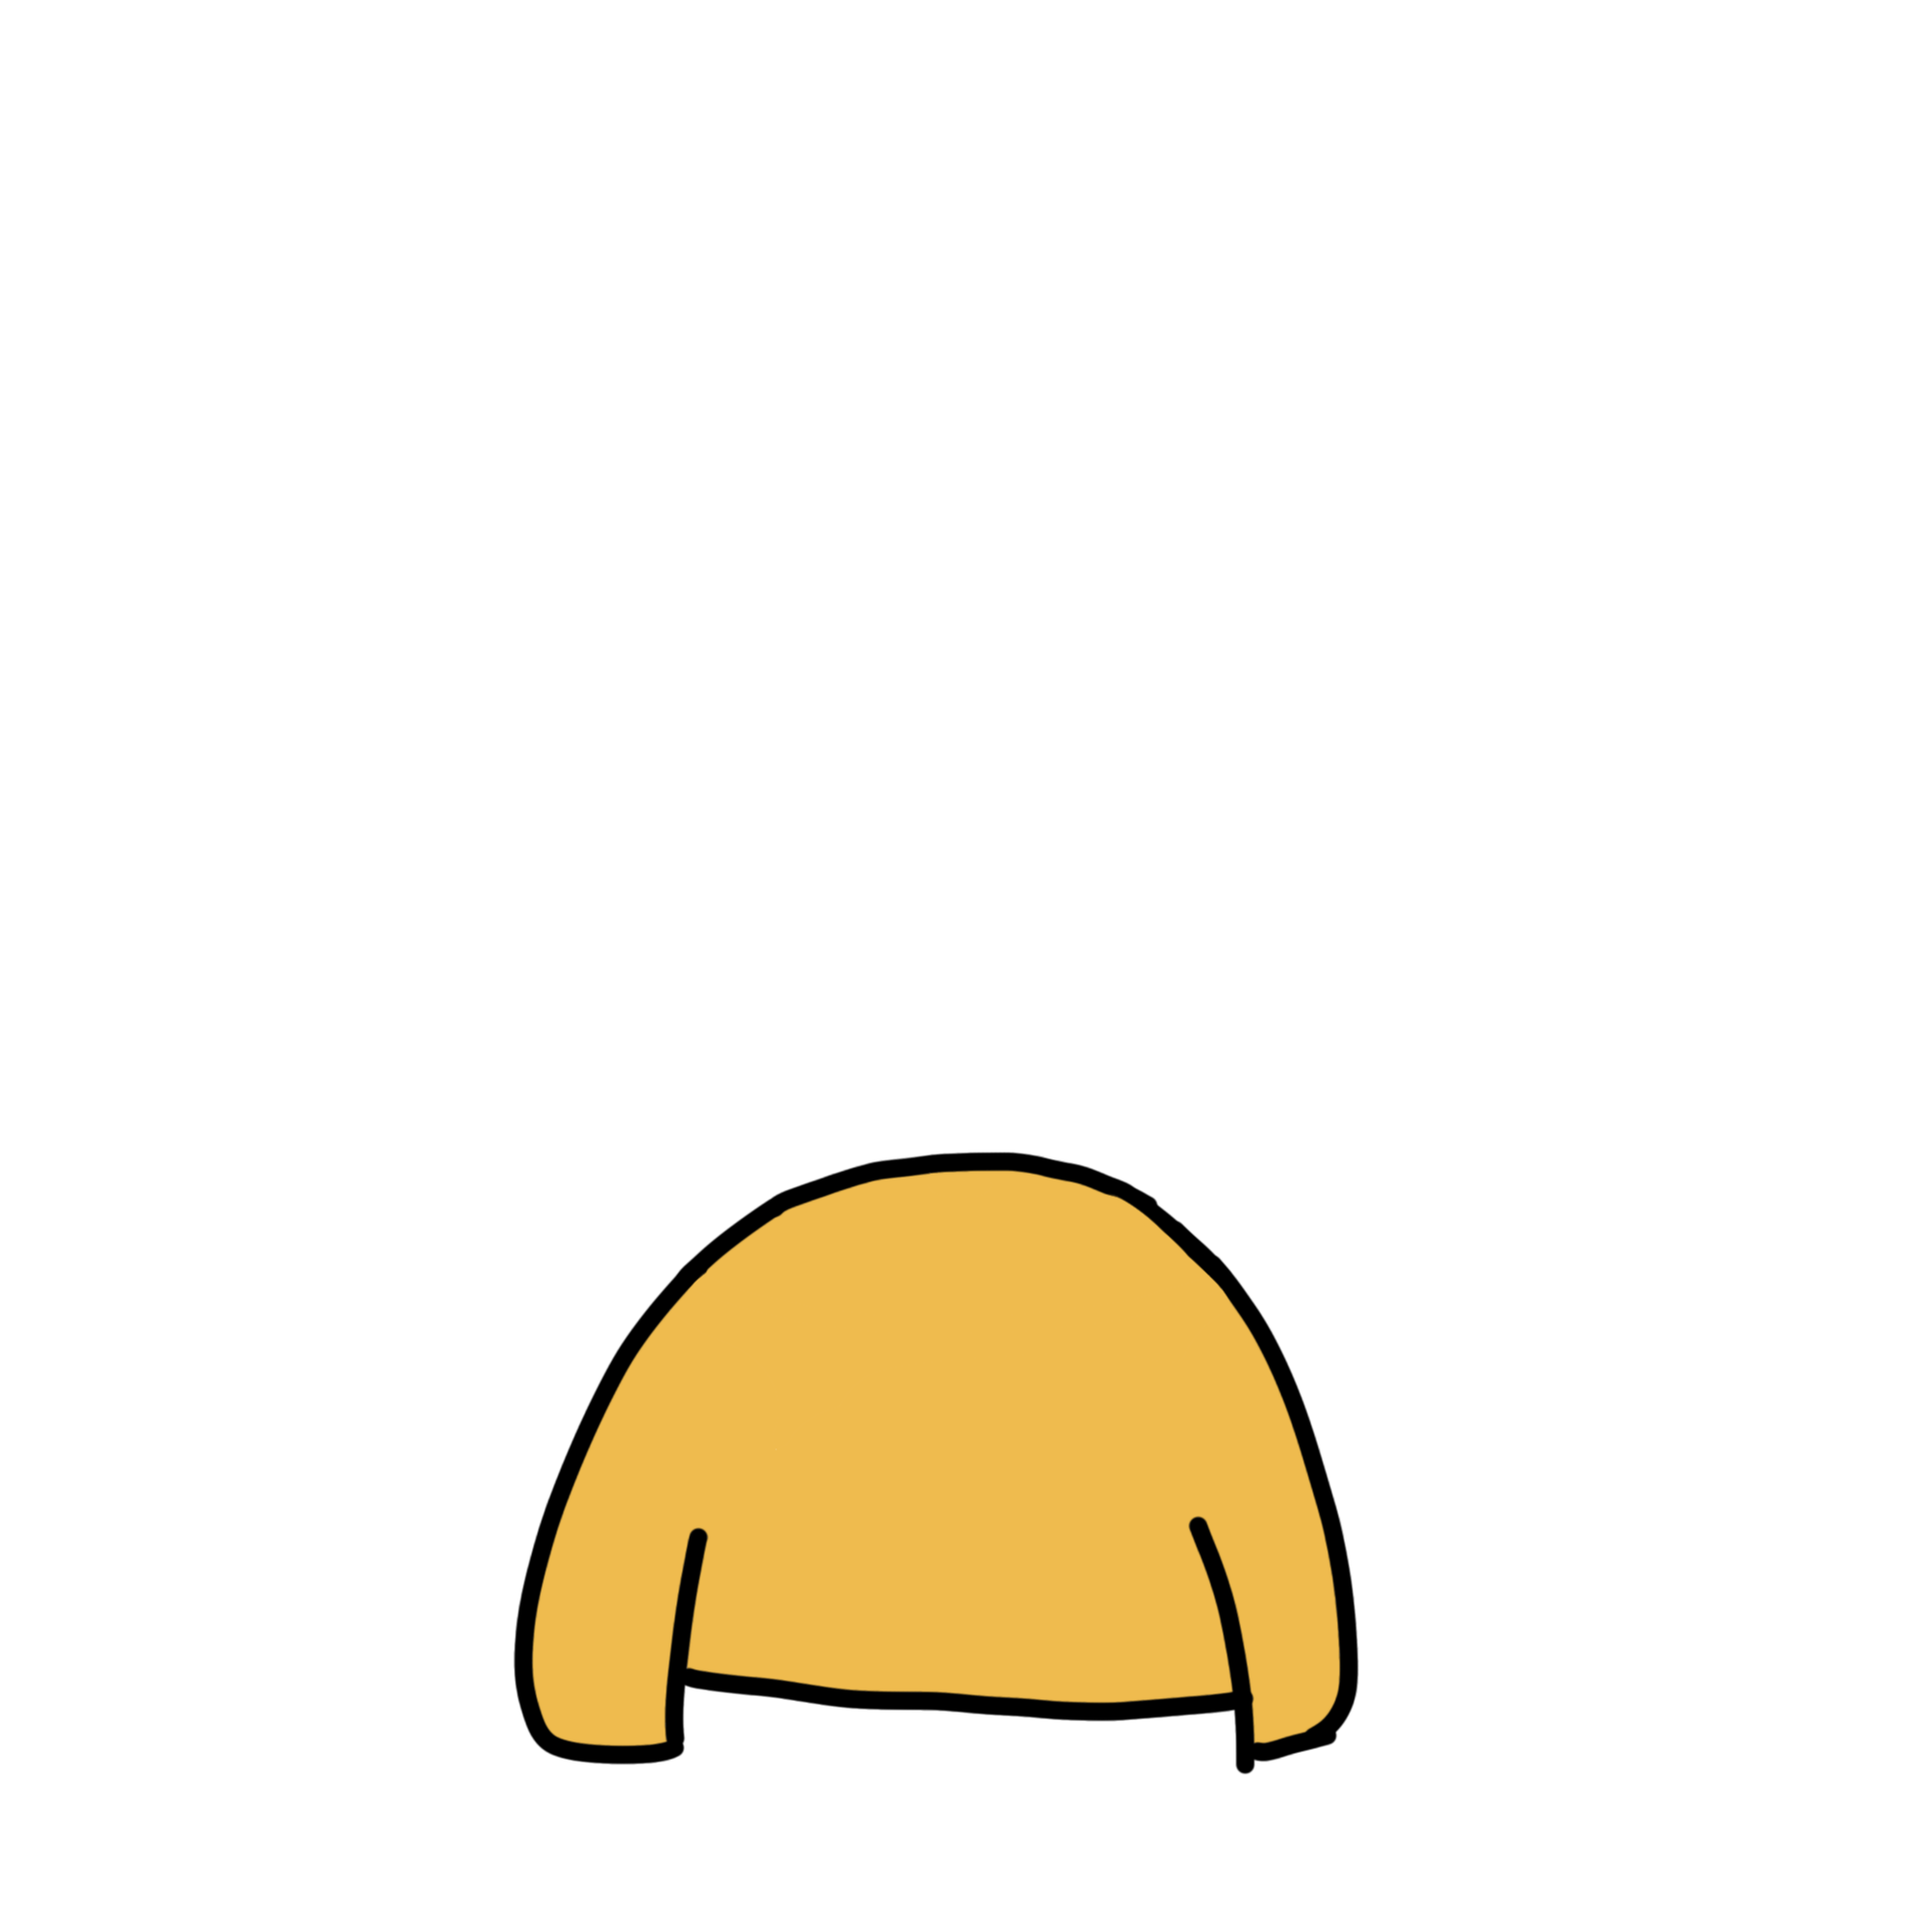
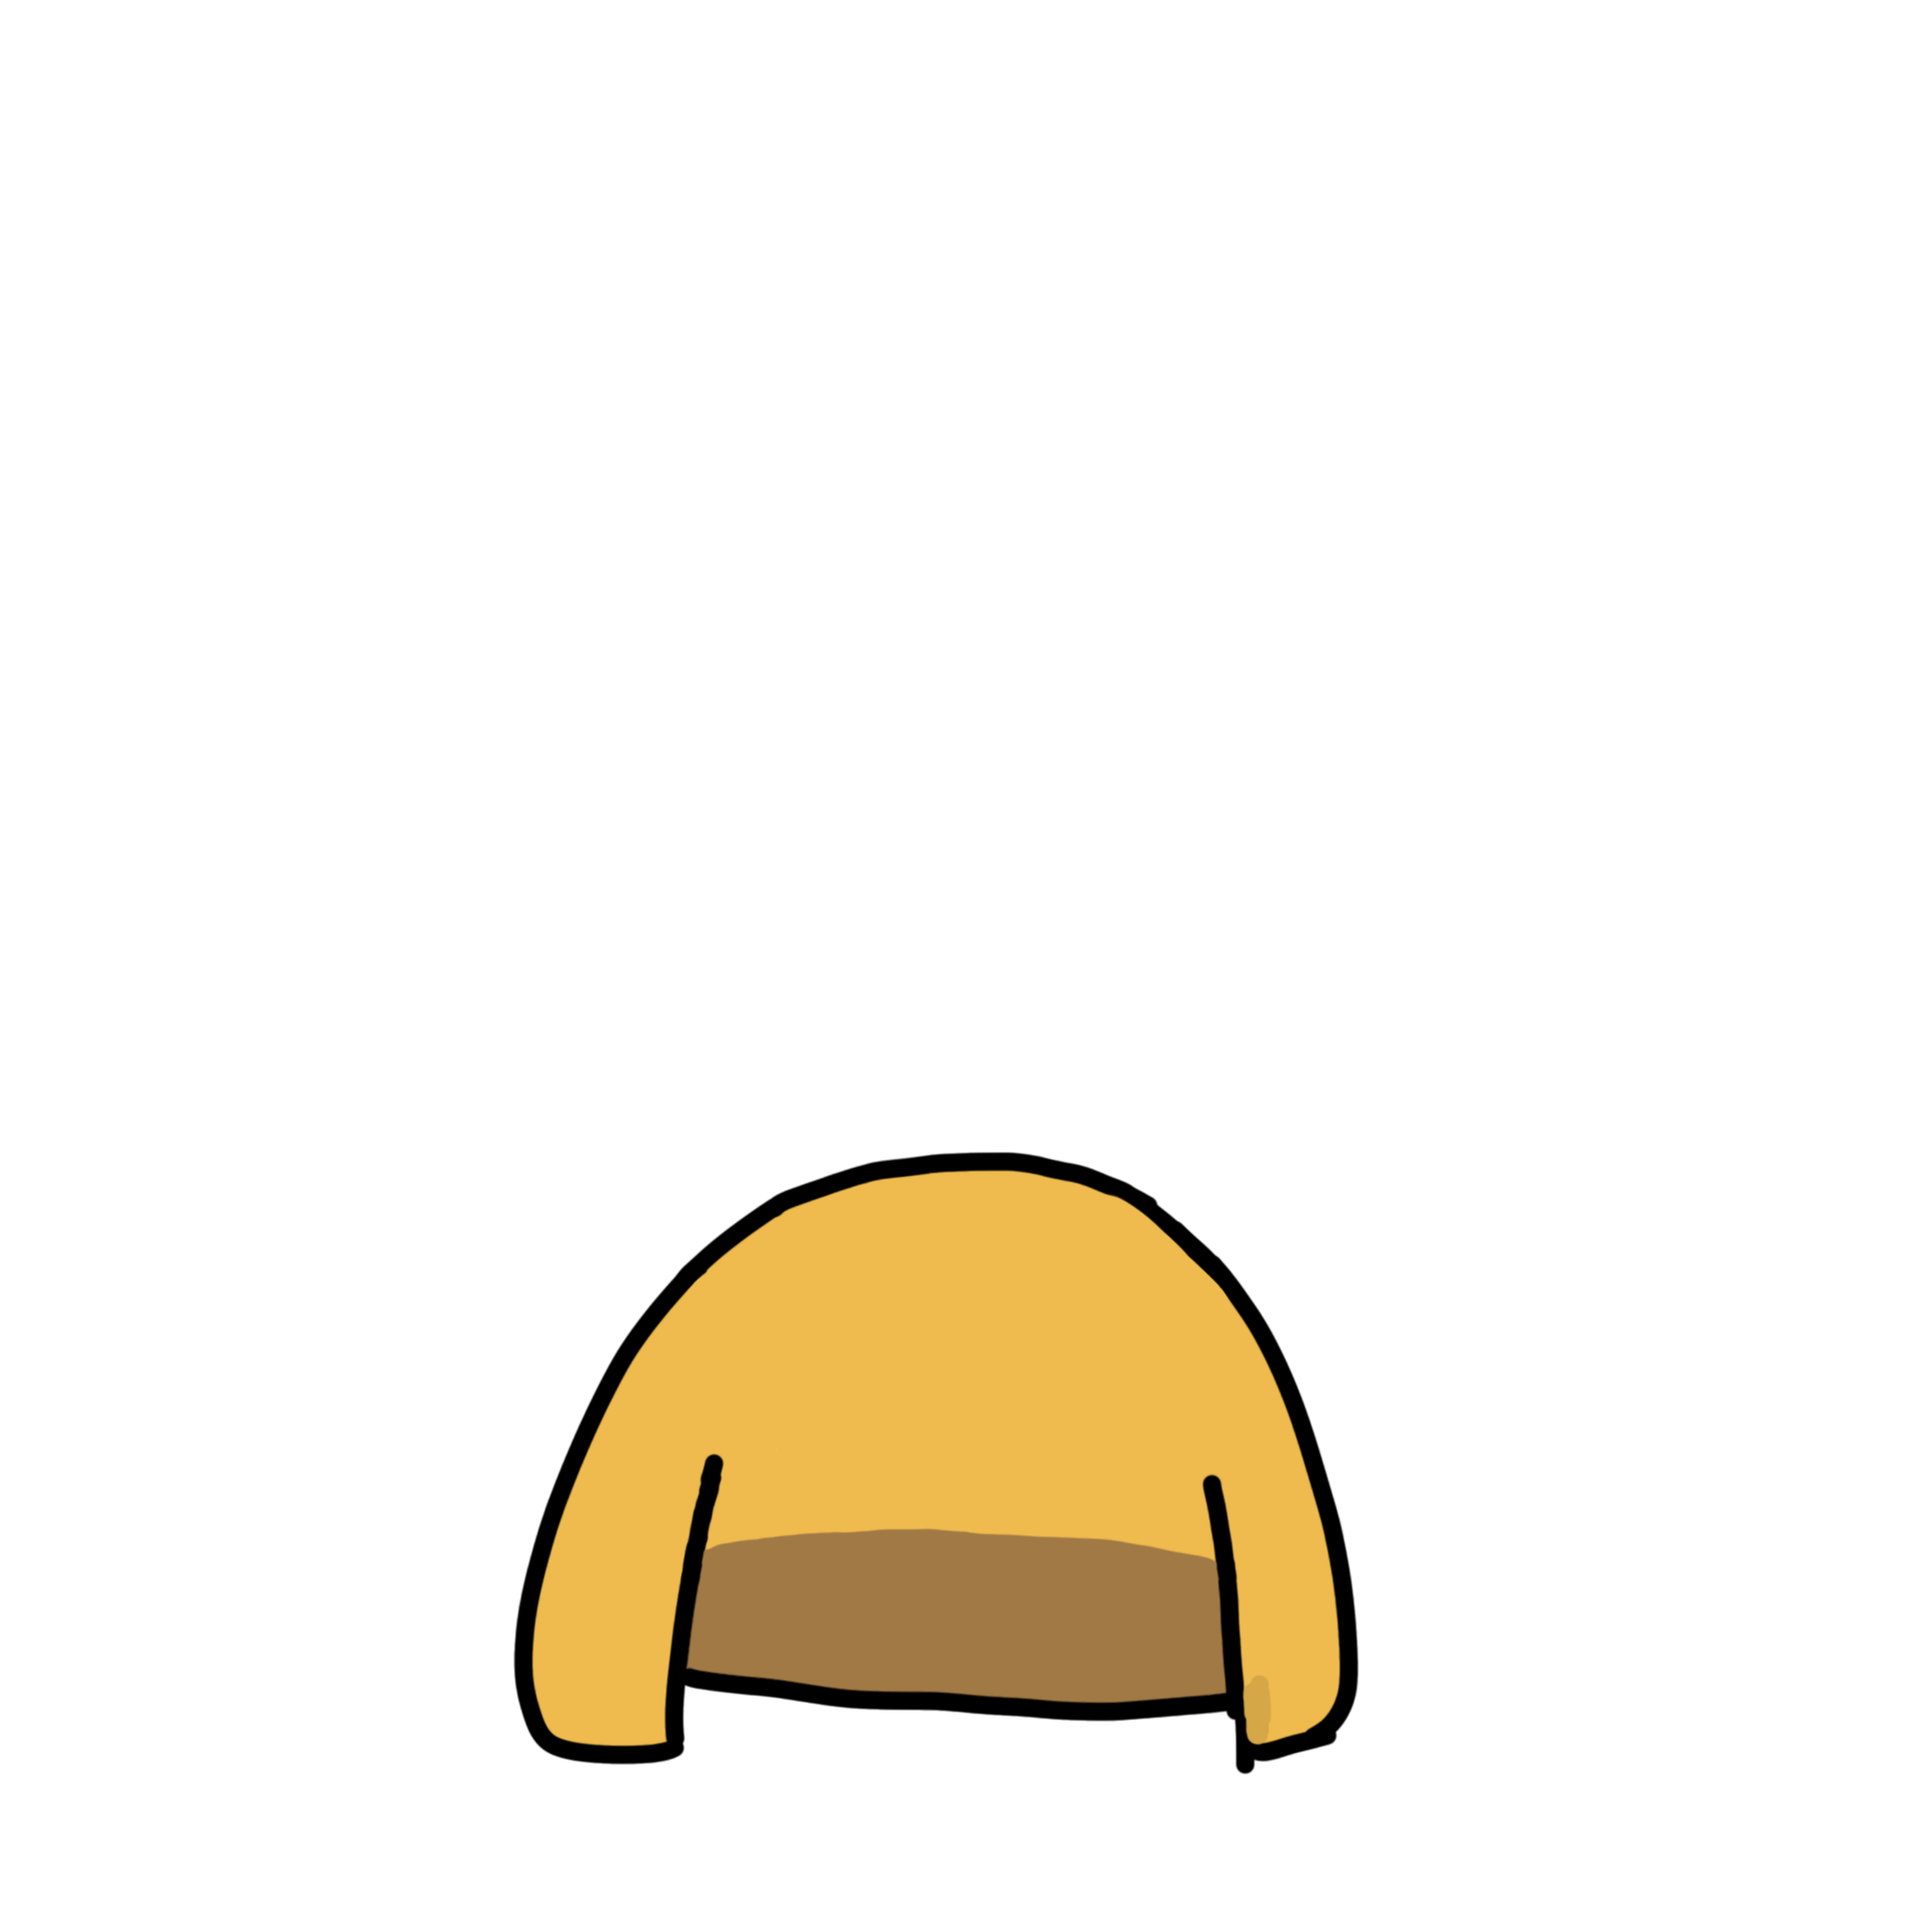
chunsik

Changed region(s): [[0.341, 0.744, 0.682, 0.899]]

diff --git a/src/pages/index.tsx b/src/pages/index.tsx
@@ -1,7 +1,10 @@
 import Head from 'next/head'
 import Link from 'next/link';
 import Layout from '@components/layout';
+import Header from '@components/header';
+import FixedHeader from '@components/fixedHeader';
 import Contents from '@components/contents';
+import Footer from '@components/footer';
 import styles from './../components/index/index.module.scss';
 import classnames from 'classnames/bind';
 
@@ -14,6 +17,8 @@ export default function Home() {
 			<Head>
 				<title>index</title>
 			</Head>
+			<Header/>
+            <FixedHeader/>
 			<Contents>
 				<div className={cx('wrap')}>
 					<h1 className={cx('title')}>Interaction components</h1>
@@ -136,6 +141,7 @@ export default function Home() {
 					<hr/>
 				</div>
 			</Contents>
+			<Footer/>
 		</Layout>
 	)
 }

diff --git a/src/pages/koreaMap.tsx b/src/pages/koreaMap.tsx
@@ -1,13 +1,17 @@
-import Contents from "@components/contents";
 import Layout from "@components/layout";
-import { useState } from "react";
+import Header from "@components/header";
+import FixedHeader from "@components/fixedHeader";
+import Contents from "@components/contents";
 import KoreaMap from "src/components/koreaMap";
+import { useState } from "react";
 
 const KoreaMapPage = () => {
 	const [selectedLocations, setSelectedLocations] = useState([]);
 
 	return (
 		<Layout>
+			<Header/>
+            <FixedHeader/>
 			<Contents>
 				<KoreaMap
 					selectedLocations={selectedLocations}

diff --git a/src/components/chunSik/index.tsx b/src/components/chunSik/index.tsx
@@ -5,11 +5,13 @@ import { useEffect, useState } from 'react';
 const cx = classnames.bind(styles);
 
 const clothesData = [
+    '/nextjs/img/chunSik/imgChunSikGentleman.png',
     '/nextjs/img/chunSik/imgChunSikLoopy.png',
+    '/nextjs/img/chunSik/imgChunSikMacho.png',
+    '/nextjs/img/chunSik/imgChunSikMask.png',
     '/nextjs/img/chunSik/imgChunSikPitter.png',
     '/nextjs/img/chunSik/imgChunSikSanta.png',
-    '/nextjs/img/chunSik/imgChunSikLoopy.png',
-    '/nextjs/img/chunSik/imgChunSikPitter.png',
+    '/nextjs/img/chunSik/imgChunSikCucumber.png',
 ];
 
 interface IClothesListProps {

diff --git a/src/pages/stickyScroll.tsx b/src/pages/stickyScroll.tsx
@@ -1,4 +1,6 @@
 import Layout from "@components/layout";
+import Header from "@components/header";
+import FixedHeader from "@components/fixedHeader";
 import Contents from "@components/contents";
 import Banner from "../components/stickyScroll/banner";
 import StickyScroll from "../components/stickyScroll";
@@ -7,6 +9,8 @@ import ScrollTop from "../components/stickyScroll/scrollTop";
 const StickyScrollPage = () => {
 	return (
 		<Layout>
+			<Header/>
+            <FixedHeader/>
 			<Contents>
 				<Banner/>
 				<StickyScroll/>

diff --git a/src/pages/barChart.tsx b/src/pages/barChart.tsx
@@ -1,13 +1,19 @@
 import Layout from "@components/layout";
+import Header from "@components/header";
+import FixedHeader from "@components/fixedHeader";
 import Contents from "@components/contents";
 import BarChart from "src/components/charts/barChart";
+import Footer from "@components/footer";
 
 const BarChartPage = () => {
     return (
 		<Layout>
+            <Header/>
+            <FixedHeader/>
             <Contents>
                 <BarChart/>
             </Contents>
+            <Footer/>
         </Layout>
     )
 };

diff --git a/src/pages/radarChart.tsx b/src/pages/radarChart.tsx
@@ -1,4 +1,6 @@
 import Layout from "@components/layout";
+import Header from "@components/header";
+import FixedHeader from "@components/fixedHeader";
 import Contents from "@components/contents";
 import RadarChart from "src/components/charts/radarChart";
 
@@ -15,6 +17,8 @@ const RadarChartPage = () => {
 
     return (
 		<Layout>
+			<Header/>
+            <FixedHeader/>
             <Contents>
                 <RadarChart radarChartDataList={radarChartDataList}/>
             </Contents>

diff --git a/src/pages/lineChart.tsx b/src/pages/lineChart.tsx
@@ -1,10 +1,14 @@
+import Layout from "@components/layout";
+import Header from "@components/header";
+import FixedHeader from "@components/fixedHeader";
 import Contents from "@components/contents";
 import LineChart from "src/components/charts/lineChart";
-import Layout from "@components/layout";
 
 const LineChartPage = () => {
     return (
         <Layout>
+            <Header/>
+            <FixedHeader/>
             <Contents>
                 <LineChart />
             </Contents>

diff --git a/src/pages/waveText.tsx b/src/pages/waveText.tsx
@@ -1,11 +1,15 @@
-import Contents from "@components/contents";
 import Layout from "@components/layout";
+import Header from "@components/header";
+import FixedHeader from "@components/fixedHeader";
+import Contents from "@components/contents";
 import WaveText from "src/components/waveText";
 
 const WaveTextPage = () => {
 
     return (
         <Layout>
+            <Header/>
+            <FixedHeader/>
 			<Contents>
                 <WaveText text={'heyyyyyyyyyyyy'}/>
 			</Contents>

diff --git a/src/pages/chunSik.tsx b/src/pages/chunSik.tsx
@@ -1,10 +1,14 @@
-import Contents from "@components/contents";
 import Layout from "@components/layout";
+import Header from "@components/header";
+import FixedHeader from "@components/fixedHeader";
+import Contents from "@components/contents";
 import ChunSik from "src/components/chunSik";
 
 const ChunSikPage = () => {
     return (
         <Layout>
+            <Header/>
+            <FixedHeader/>
             <Contents>
                 <ChunSik/>
             </Contents>

diff --git a/src/pages/introduction.tsx b/src/pages/introduction.tsx
@@ -1,10 +1,14 @@
-import Contents from "@components/contents";
 import Layout from "@components/layout";
+import Header from "@components/header";
+import FixedHeader from "@components/fixedHeader";
+import Contents from "@components/contents";
 import Introduction from "../components/introduction";
 
 const IntroductionPage = () => {
 	return (
 		<Layout>
+			<Header/>
+            <FixedHeader/>
 			<Contents>
 				<Introduction/>
 			</Contents>

diff --git a/src/pages/vennDiagram.tsx b/src/pages/vennDiagram.tsx
@@ -1,10 +1,14 @@
 import Layout from "@components/layout";
+import Header from "@components/header";
+import FixedHeader from "@components/fixedHeader";
 import Contents from "@components/contents";
 import VennDiagram from "src/components/charts/vennDiagram";
 
 const VennDiagramPage = () => {
     return (
 		<Layout>
+            <Header/>
+            <FixedHeader/>
             <Contents>
                 <VennDiagram/>
             </Contents>

diff --git a/src/pages/gradation.tsx b/src/pages/gradation.tsx
@@ -1,10 +1,14 @@
 import Layout from "@components/layout";
+import Header from "@components/header";
+import FixedHeader from "@components/fixedHeader";
 import Contents from "@components/contents";
 import Gradation from "src/components/effect/gradation";
 
 const GradationPage = () => {
     return (
         <Layout>
+            <Header/>
+            <FixedHeader/>
             <Contents>
                 <Gradation />
             </Contents>
